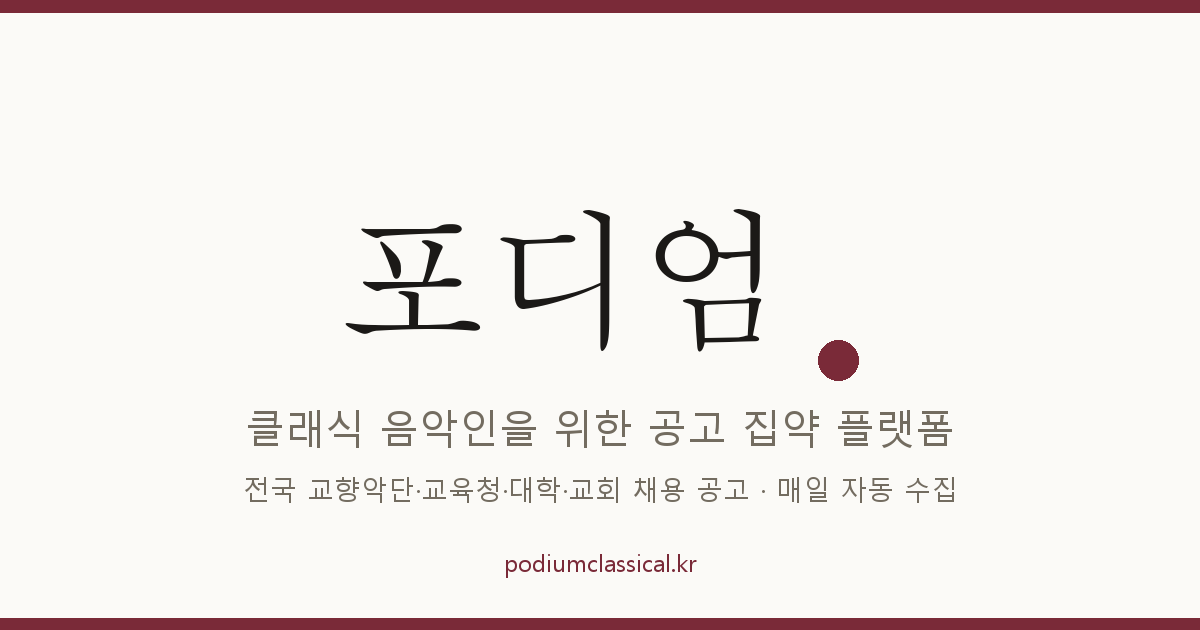
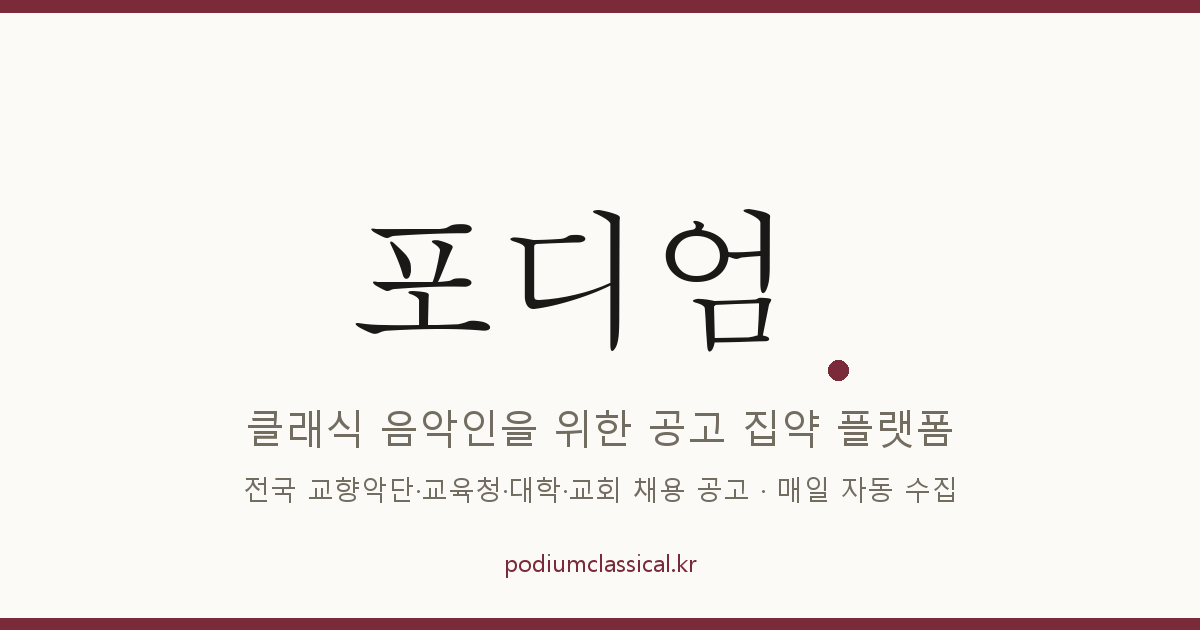
style: og 이미지 로고 점 크기 절반으로 축소 (r20→r10, 밑선 고정)

Changed region(s): [[0.2775, 0.3317, 0.6475, 0.573], [0.6783, 0.5429, 0.74, 0.6032]]

diff --git a/crawler/make_brand_assets.py b/crawler/make_brand_assets.py
@@ -33,11 +33,13 @@ def make_og():
     word = "포디엄"
     wb = d.textbbox((0, 0), word, font=wf)
     ww = wb[2] - wb[0]
-    dot_r = 20
+    dot_r = 10
+    dot_bottom = 380          # 글자 밑선에 맞춰 아래를 고정 (크기를 바꿔도 안 뜸)
     total = ww + 34 + dot_r * 2
     x0 = (W - total) / 2
     d.text((x0 - wb[0], 205), word, font=wf, fill=INK)
-    d.ellipse([x0 + ww + 30, 340, x0 + ww + 30 + dot_r * 2, 340 + dot_r * 2], fill=CLARET)
+    dot_x = x0 + ww + 30
+    d.ellipse([dot_x, dot_bottom - dot_r * 2, dot_x + dot_r * 2, dot_bottom], fill=CLARET)
     # 태그라인
     center(d, W / 2, 400, "클래식 음악인을 위한 공고 집약 플랫폼", f(SANS, 40), INK_SOFT)
     center(d, W / 2, 470, "전국 교향악단·교육청·대학·교회 채용 공고 · 매일 자동 수집", f(SANS, 27), INK_SOFT)
